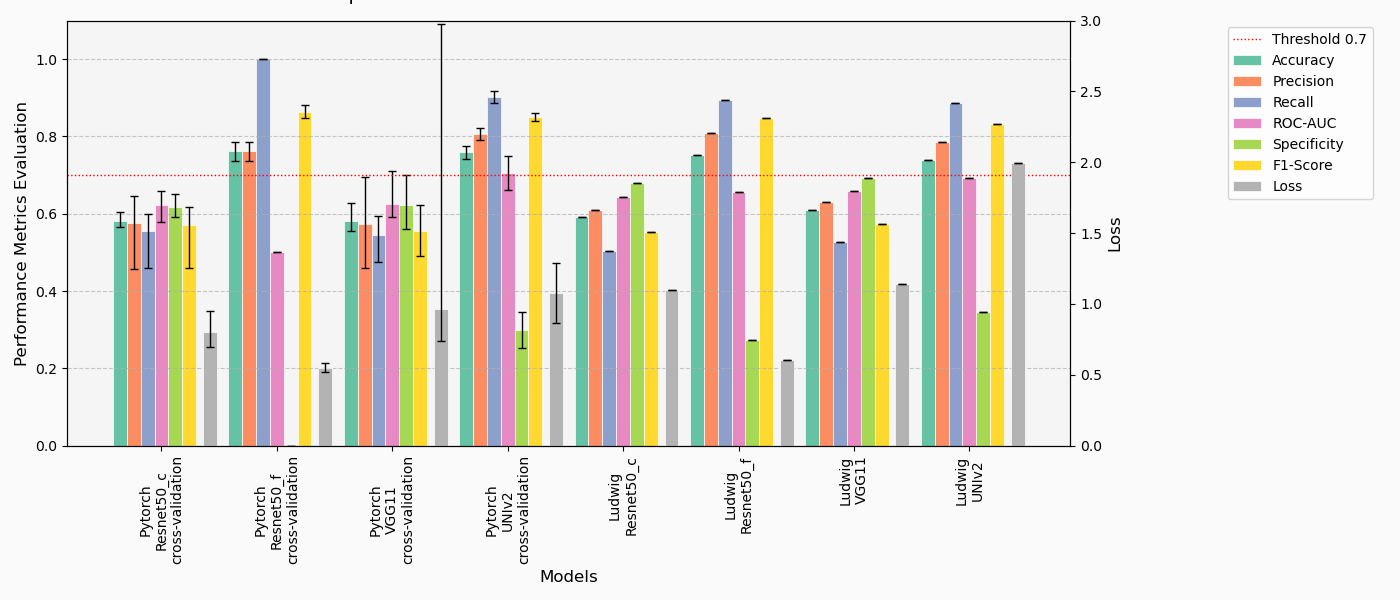
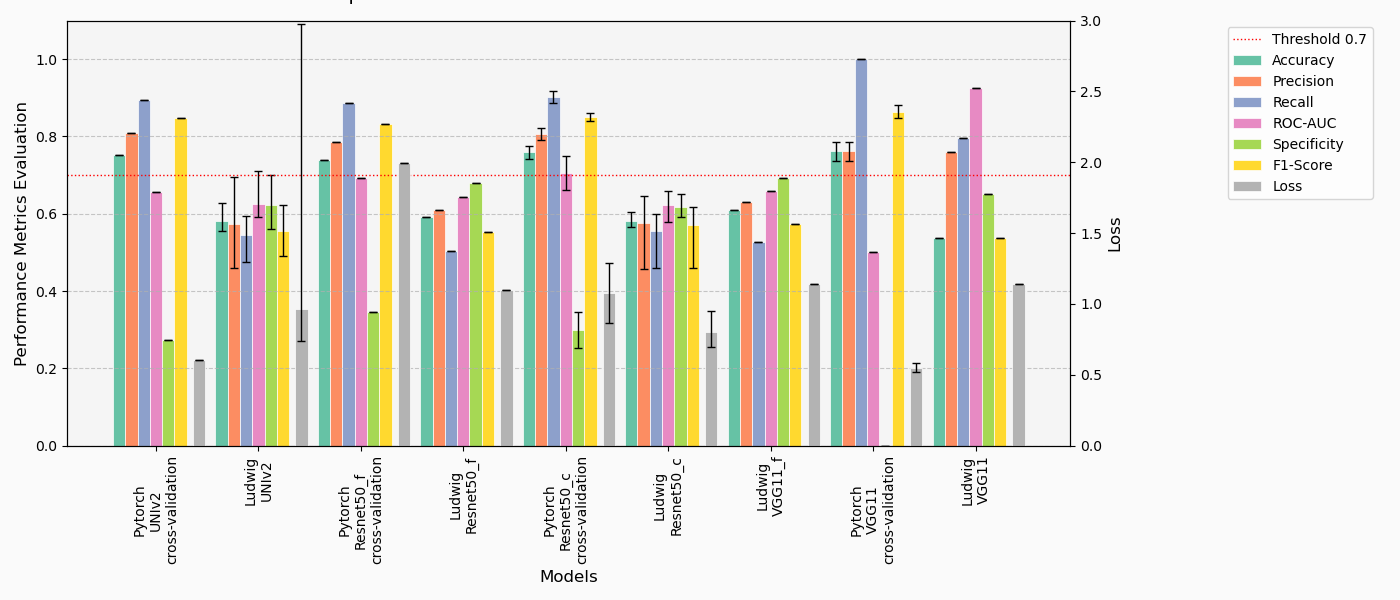
embedding_test figure vgg11_full_ludwig

Changed region(s): [[0.0614, 0.09, 0.7371, 0.93], [0.2457, 0.78, 0.4914, 0.93], [0.5836, 0.78, 0.645, 0.93]]

diff --git a/tiles_embedding_test/utils/metrics_plot.py b/tiles_embedding_test/utils/metrics_plot.py
@@ -1,46 +1,53 @@
 import matplotlib.pyplot as plt
 import numpy as np
 
-# Updated results with new entries
+# Updated results with new order
 results = [
-    'Pytorch Resnet50_c cross-validation',
-    'Pytorch Resnet50_f cross-validation',
-    'Pytorch VGG11 cross-validation',
     'Pytorch UNIv2 cross-validation',
-    'Ludwig Resnet50_c',
+    'Ludwig UNIv2',
+    'Pytorch Resnet50_f cross-validation',
     'Ludwig Resnet50_f',
-    'Ludwig VGG11',
-    'Ludwig UNIv2'
+    'Pytorch Resnet50_c cross-validation',
+    'Ludwig Resnet50_c',
+    'Ludwig VGG11_f',
+    'Pytorch VGG11 cross-validation',
+    'Ludwig VGG11'
 ]
 
-# Metric arrays updated with new values
-loss = [0.8014, 0.5503, 0.9623, 1.0785, 1.0982, 0.6007, 1.1385, 1.9936]
-loss_ci_lower = [0.6932, 0.5208, 0.7394, 0.8674, None, None, None, None]
-loss_ci_upper = [0.9473, 0.5799, 2.9727, 1.2895, None, None, None, None]
+# Define the new order index mapping
+new_order = [3, 7, 1, 5, 0, 4, 8, 2, 6]
 
-accuracy = [0.5822, 0.7613, 0.5814, 0.7592, 0.5924, 0.7532, 0.6100, 0.7398]
-accuracy_ci_lower = [0.5669, 0.7361, 0.5550, 0.7424, None, None, None, None]
-accuracy_ci_upper = [0.6051, 0.7865, 0.6281, 0.7760, None, None, None, None]
+def reorder_list(lst, order):
+    return [lst[i] for i in order]
 
-precision = [0.5769, 0.7613, 0.5734, 0.8056, 0.6096, 0.8082, 0.6296, 0.7850]
-precision_ci_lower = [0.4560, 0.7361, 0.4608, 0.7907, None, None, None, None]
-precision_ci_upper = [0.6459, 0.7865, 0.6939, 0.8206, None, None, None, None]
+# Reorder all metric lists
+loss = reorder_list([1.0785, 1.9936, 0.5503, 0.6007, 0.8014, 1.0982, 1.1385, 0.9623, 1.1385], new_order)
+loss_ci_lower = reorder_list([0.8674, None, 0.5208, None, 0.6932, None, None, 0.7394, None], new_order)
+loss_ci_upper = reorder_list([1.2895, None, 0.5799, None, 0.9473, None, None, 2.9727, None], new_order)
 
-recall = [0.5558, 1.0000, 0.5450, 0.9019, 0.5039, 0.8931, 0.5258, 0.8859]
-recall_ci_lower = [0.4591, 1.0000, 0.4739, 0.8856, None, None, None, None]
-recall_ci_upper = [0.5986, 1.0000, 0.5938, 0.9182, None, None, None, None]
+accuracy = reorder_list([0.7592, 0.7398, 0.7613, 0.7532, 0.5822, 0.5924, 0.5377, 0.5814, 0.6100], new_order)
+accuracy_ci_lower = reorder_list([0.7424, None, 0.7361, None, 0.5669, None, None, 0.5550, None], new_order)
+accuracy_ci_upper = reorder_list([0.7760, None, 0.7865, None, 0.6051, None, None, 0.6281, None], new_order)
 
-roc_auc = [0.6238, 0.5000, 0.6241, 0.7057, 0.6435, 0.6571, 0.6597, 0.6930]
-roc_auc_ci_lower = [0.5797, 0.5000, 0.5911, 0.6625, None, None, None, None]
-roc_auc_ci_upper = [0.6579, 0.5000, 0.7104, 0.7490, None, None, None, None]
+precision = reorder_list([0.8056, 0.7850, 0.7613, 0.8082, 0.5769, 0.6096, 0.7585, 0.5734, 0.6296], new_order)
+precision_ci_lower = reorder_list([0.7907, None, 0.7361, None, 0.4560, None, None, 0.4608, None], new_order)
+precision_ci_upper = reorder_list([0.8206, None, 0.7865, None, 0.6459, None, None, 0.6939, None], new_order)
 
-specificity = [0.6164, 0.0000, 0.6228, 0.2996, 0.6801, 0.2739, 0.6934, 0.3454]
-specificity_ci_lower = [0.5913, 0.0000, 0.5613, 0.2537, None, None, None, None]
-specificity_ci_upper = [0.6501, 0.0000, 0.6998, 0.3455, None, None, None, None]
+recall = reorder_list([0.9019, 0.8859, 1.0000, 0.8931, 0.5558, 0.5039, 0.7953, 0.5450, 0.5258], new_order)
+recall_ci_lower = reorder_list([0.8856, None, 1.0000, None, 0.4591, None, None, 0.4739, None], new_order)
+recall_ci_upper = reorder_list([0.9182, None, 1.0000, None, 0.5986, None, None, 0.5938, None], new_order)
 
-f1_score = [0.5703, 0.8640, 0.5544, 0.8508, 0.5530, 0.8486, 0.5732, 0.8325]
-f1_score_ci_lower = [0.4591, 0.8477, 0.4896, 0.8397, None, None, None, None]
-f1_score_ci_upper = [0.6166, 0.8804, 0.6214, 0.8619, None, None, None, None]
+roc_auc = reorder_list([0.7057, 0.6930, 0.5000, 0.6571, 0.6238, 0.6435, 0.9264, 0.6241, 0.6597], new_order)
+roc_auc_ci_lower = reorder_list([0.6625, None, 0.5000, None, 0.5797, None, None, 0.5911, None], new_order)
+roc_auc_ci_upper = reorder_list([0.7490, None, 0.5000, None, 0.6579, None, None, 0.7104, None], new_order)
+
+specificity = reorder_list([0.2996, 0.3454, 0.0000, 0.2739, 0.6164, 0.6801, 0.6510, 0.6228, 0.6934], new_order)
+specificity_ci_lower = reorder_list([0.2537, None, 0.0000, None, 0.5913, None, None, 0.5613, None], new_order)
+specificity_ci_upper = reorder_list([0.3455, None, 0.0000, None, 0.6501, None, None, 0.6998, None], new_order)
+
+f1_score = reorder_list([0.8508, 0.8325, 0.8640, 0.8486, 0.5703, 0.5530, 0.5377, 0.5544, 0.5732], new_order)
+f1_score_ci_lower = reorder_list([0.8397, None, 0.8477, None, 0.4591, None, None, 0.4896, None], new_order)
+f1_score_ci_upper = reorder_list([0.8619, None, 0.8804, None, 0.6166, None, None, 0.6214, None], new_order)
 
 metrics = [accuracy, precision, recall, roc_auc, specificity, f1_score]
 metric_names = ['Accuracy', 'Precision', 'Recall', 'ROC-AUC', 'Specificity', 'F1-Score']
